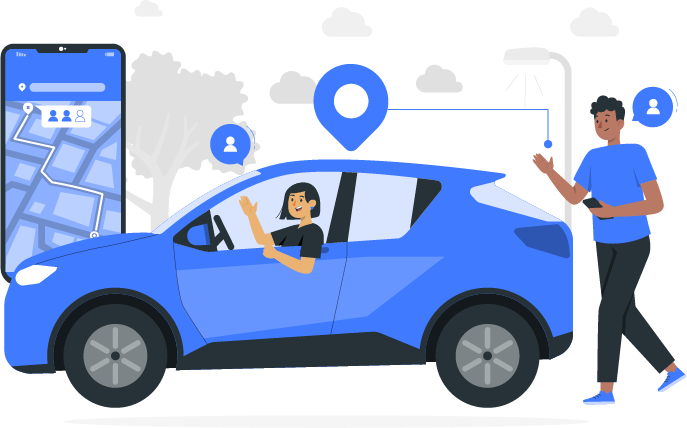
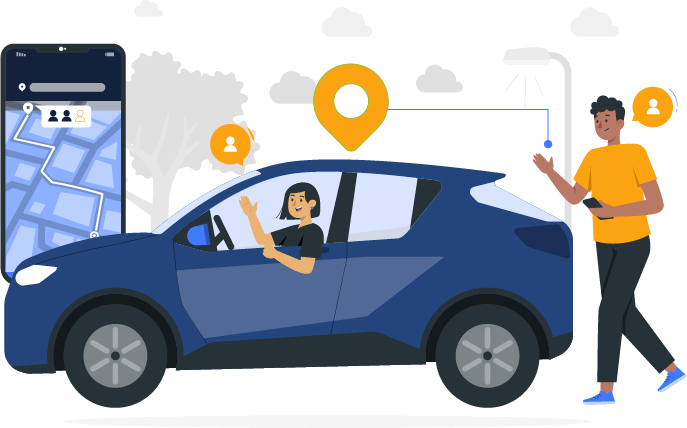
updated homepage

Changed region(s): [[0.0, 0.1519, 0.9782, 0.8808], [0.0, 0.0911, 0.1834, 0.3037], [0.917, 0.1822, 0.9782, 0.3037]]

diff --git a/app/assets/stylesheets/pages/_home.scss b/app/assets/stylesheets/pages/_home.scss
@@ -35,7 +35,7 @@
   h3 {
     font-size: 16px;
     text-align: center;
-    font-weight: 700;
+    font-weight: 800;
     margin: 0rem;
     padding: 10px 10px;
   }
@@ -45,10 +45,12 @@
 
   border-radius: 10px;
   height: 84px;
-  width: 360px;
+  width: 370px;
   align-items: center;
   justify-content: center;
   margin: 16px 16px;
+  padding-left: 10px;
+  padding-right: 10px;
 
   h2 {
     font-size: 24px;
@@ -79,11 +81,151 @@
 
 .container {
   overflow-y: auto;
+  background-color: $light-blue;
 }
 
 .background-image {
-  width: 360px;
+  width: 240px;
   height: auto;
   margin: auto;
+}
 
+/* Slider */
+
+.slick-slide {
+  margin: 0px 20px;
+  align-items: center;
+  justify-content: center;
+}
+
+.slick-slide img {
+  width: 100%;
+
+}
+
+.slick-slider
+{
+  position: relative;
+  display: block;
+  box-sizing: border-box;
+  -webkit-user-select: none;
+  -moz-user-select: none;
+  -ms-user-select: none;
+          user-select: none;
+  -webkit-touch-callout: none;
+  -khtml-user-select: none;
+  -ms-touch-action: pan-y;
+      touch-action: pan-y;
+  -webkit-tap-highlight-color: transparent;
+  display: flex;
+}
+
+.slick-list
+{
+  position: relative;
+  display: block;
+  overflow: hidden;
+  margin: 0;
+  padding: 0;
+}
+.slick-list:focus
+{
+  outline: none;
+}
+.slick-list.dragging
+{
+  cursor: pointer;
+  cursor: hand;
+}
+
+.slick-slider .slick-track,
+.slick-slider .slick-list
+{
+  -webkit-transform: translate3d(0, 0, 0);
+     -moz-transform: translate3d(0, 0, 0);
+      -ms-transform: translate3d(0, 0, 0);
+       -o-transform: translate3d(0, 0, 0);
+          transform: translate3d(0, 0, 0);
+}
+
+.slick-track
+{
+  position: relative;
+  top: 0;
+  left: 0;
+  display: block;
+  align-items: center;
+  justify-content: center;
+  display: flex;
+}
+.slick-track:before,
+.slick-track:after
+{
+  display: table;
+  content: '';
+}
+.slick-track:after
+{
+  clear: both;
+}
+.slick-loading .slick-track
+{
+  visibility: hidden;
+}
+
+.slick-slide
+{
+  display: none;
+  float: left;
+  height: 100%;
+  min-height: 1px;
+}
+[dir='rtl'] .slick-slide
+{
+  float: right;
+}
+.slick-slide img
+{
+  display: block;
+  align-items: center;
+}
+.slick-slide.slick-loading img
+{
+  display: none;
+}
+.slick-slide.dragging img
+{
+  pointer-events: none;
+}
+.slick-initialized .slick-slide
+{
+  display: block;
+}
+.slick-loading .slick-slide
+{
+  visibility: hidden;
+}
+.slick-vertical .slick-slide
+{
+  display: block;
+  height: auto;
+  border: 1px solid transparent;
+}
+.slick-arrow.slick-hidden {
+  display: none;
+}
+
+body {
+  background-color: $light-blue !important;
+  height: 100vh !important;
+}
+
+.container-scroll {
+  margin-left: 40px;
+  margin-right: 40px;
+}
+
+.arrow-down {
+  width: 40px;
+  height: auto;
 }

diff --git a/app/assets/stylesheets/components/_button.scss b/app/assets/stylesheets/components/_button.scss
@@ -42,38 +42,48 @@
 }
 
 .fake-button-1 {
-  border-radius: 30px;
-  border: 1px solid black;
-  padding: 10px 20px;
+  border-radius: 10px;
+  box-shadow: 1px 2px 25px 2px rgba(0,0,0,0.15);
+  padding: 10px 15px;
   margin: 10px;
+  margin-top: 20px;
   text-decoration: none;
   font-size: 12px;
   align-items: center;
   color: gray;
   background-color: white;
   display: flex;
-  justify-content: space-between;
   width: 200px;
   position: absolute;
   z-index: 9;
 
+  p {
+    margin: 0rem;
+    padding-left: 5px;
+  }
+
 }
 .fake-button-2 {
-  border-radius: 30px;
-  border: 1px solid black;
-  padding: 10px 20px;
+  border-radius: 10px;
+  box-shadow: 1px 2px 25px 2px rgba(0,0,0,0.15);
+  padding: 10px 15px;
   margin: 10px;
+  margin-top: 20px;
   text-decoration: none;
   font-size: 12px;
   align-items: center;
   color: gray;
   background-color: white;
   display: flex;
-  justify-content: space-between;
   width: 200px;
   position: absolute;
   z-index: 9;
   left: 210px;
+
+  p {
+    margin: 0rem;
+    padding-left: 5px;
+  }
 
 }
 
@@ -81,4 +91,21 @@
   .mapboxgl-canvas {
     width: 100vw !important;
   }
+}
+
+.pulse {
+  animation: pulse-animation 2s infinite;
+}
+
+@keyframes pulse-animation {
+  0% {
+    box-shadow: 0 0 0 0px rgba(0, 0, 0, 0.2);
+  }
+  100% {
+    box-shadow: 0 0 0 10px rgba(0, 0, 0, 0);
+  }
+}
+
+.gps-icon {
+  width: 20px;
 }

diff --git a/app/javascript/slider.js b/app/javascript/slider.js
@@ -1,0 +1,27 @@
+const sliderItem = () => {
+
+  $(document).ready(function(){
+    $('.customer-logos').slick({
+        slidesToShow: 6,
+        slidesToScroll: 1,
+        autoplay: true,
+        autoplaySpeed: 2500,
+        arrows: false,
+        dots: false,
+        pauseOnHover: false,
+        responsive: [{
+            breakpoint: 768,
+            settings: {
+                slidesToShow: 4
+            }
+        }, {
+            breakpoint: 520,
+            settings: {
+                slidesToShow: 3
+            }
+        }]
+    });
+  });
+}
+
+export {sliderItem};

diff --git a/app/assets/stylesheets/components/_nav-test.scss b/app/assets/stylesheets/components/_nav-test.scss
@@ -6,6 +6,10 @@
   top: 0;
 }
 
+.navbar-container {
+  background-color: $light-blue;
+}
+
 .logo {
   width: 120px;
   height: auto;
@@ -19,7 +23,7 @@
   left: 0;
   bottom: 0;
   text-align: center;
-  background: #FFF;
+  background: $light-blue;
   opacity: 0;
   z-index: -1;
   visibility: hidden;

diff --git a/app/javascript/application.js b/app/javascript/application.js
@@ -2,5 +2,6 @@
 import "@hotwired/turbo-rails"
 import "./controllers"
 import "bootstrap"
-import {transitionItem} from "./transition"
-transitionItem();
+import {sliderItem} from "./slider"
+
+sliderItem();

diff --git a/app/assets/stylesheets/components/_transitions.scss b/app/assets/stylesheets/components/_transitions.scss
@@ -17,7 +17,7 @@
   animation: fade-out 2.5s 1.2s ease-out forwards;
 }
 
-main {
+.main {
 	position: absolute;
 	top: 0;
 	height: 100vh;
